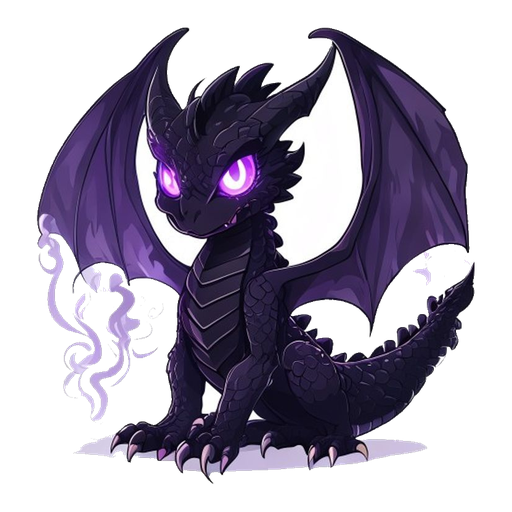
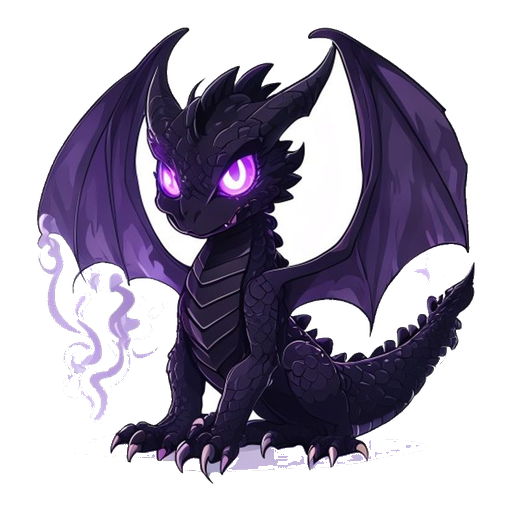
fix: เก็บงานภาพ ป้อมเวท + ลบเงาขาวใต้มอนสเตอร์ (v3.24.45)
- tower_magic.png: เจนใหม่ (Leonardo) แก้ตัวอักษรรูนมั่ว "RGENAT"
- enemy_*.png (19 ตัว): ลบเงาแผ่นขาว-เทาใต้เท้า ด้วย border-connected
  flood fill เฉพาะพิกเซลจืด+สว่าง (thr176/sat34) ปลอดภัยกับตัวมอน
  (โครงกระดูก/เกราะเงิน/หินโกเลม/สีอิ่มไม่โดนกิน)

diff --git a/Tower Quest 🏰.html b/Tower Quest 🏰.html
@@ -3,7 +3,7 @@
 
 <meta name="viewport" content="width=device-width, initial-scale=1.0, maximum-scale=1.0, user-scalable=no">
 <title>Tower Quest 🏰</title>
-<link rel="stylesheet" href="css/main.css?v=3.24.44">
+<link rel="stylesheet" href="css/main.css?v=3.24.45">
 </head>
 <body>
 
@@ -59,7 +59,7 @@
   <div class="island" id="logoIsland">🏰</div>
   <div class="gtitle">TOWER QUEST</div>
   <div class="gsub">⚔ ปกป้องอาณาจักรของคุณ!</div>
-  <div id="verBtn" style="font-size:10px;color:rgba(255,224,130,.45);letter-spacing:1px;margin-top:-18px;margin-bottom:18px;cursor:pointer;">📰 v3.24.44 — มีอะไรใหม่<span id="newsBadge" class="news-badge" style="display:none;"></span></div>
+  <div id="verBtn" style="font-size:10px;color:rgba(255,224,130,.45);letter-spacing:1px;margin-top:-18px;margin-bottom:18px;cursor:pointer;">📰 v3.24.45 — มีอะไรใหม่<span id="newsBadge" class="news-badge" style="display:none;"></span></div>
 
   <!-- battle buttons -->
   <button class="bbattle" id="startBtn">⚔ โหมดเนื้อเรื่อง</button>
@@ -920,15 +920,15 @@
     <button class="obtn" onclick="closeSettings()">✔ ปิด</button>
   </div>
 </div>
-<script src="js/cloud-save.js?v=3.24.44"></script>
-<script src="js/save.js?v=3.24.44"></script>
-<script src="js/enemy.js?v=3.24.44"></script>
-<script src="js/tower.js?v=3.24.44"></script>
-<script src="js/game.js?v=3.24.44"></script>
-<script src="js/ui-data.js?v=3.24.44"></script>
-<script src="js/ui-profile.js?v=3.24.44"></script>
-<script src="js/ui-casino.js?v=3.24.44"></script>
-<script src="js/ui.js?v=3.24.44"></script>
+<script src="js/cloud-save.js?v=3.24.45"></script>
+<script src="js/save.js?v=3.24.45"></script>
+<script src="js/enemy.js?v=3.24.45"></script>
+<script src="js/tower.js?v=3.24.45"></script>
+<script src="js/game.js?v=3.24.45"></script>
+<script src="js/ui-data.js?v=3.24.45"></script>
+<script src="js/ui-profile.js?v=3.24.45"></script>
+<script src="js/ui-casino.js?v=3.24.45"></script>
+<script src="js/ui.js?v=3.24.45"></script>
 
 
 </body></html>

diff --git a/js/ui-data.js b/js/ui-data.js
@@ -1,6 +1,10 @@
 /* ══ WHAT'S NEW (patch notes) ══ */
-const GAME_VERSION='3.24.44';
+const GAME_VERSION='3.24.45';
 const PATCH_NOTES=[
+  {ver:'3.24.45',date:'2026-07-03',title:'🖌 เก็บงานภาพ: ป้อมเวท + ลบเงาขาวใต้มอนสเตอร์',notes:[
+    'เจนป้อมเวทมนตร์ใหม่ (เอาตัวอักษรรูนมั่วออก)',
+    'ลบเงาแผ่นขาว-เทาใต้มอนสเตอร์ทั้ง 19 ตัว ให้พื้นสะอาดบนสนามมืด',
+  ]},
   {ver:'3.24.44',date:'2026-07-03',title:'🎁 เพิ่มรางวัลผ่านด่าน Act 2 (ด่าน 12-21)',notes:[
     'ภารกิจด่านมีรางวัลผ่านด่าน Act 2 ครบทั้ง 10 ด่าน (ทอง/เจม/ตั๋ว ไล่ต่อจาก Act 1)',
     'เพิ่มไมล์สโตนผ่านด่าน 9/15 + อัปเดต "ผ่านครบทุกด่าน" เป็น 21 ด่าน',

diff --git a/CHANGELOG.md b/CHANGELOG.md
@@ -2,6 +2,12 @@
 
 All notable changes to Tower Quest 🏰 will be documented in this file.
 
+## v3.24.45 — เก็บงานภาพ: ป้อมเวท + ลบเงาขาวใต้มอนสเตอร์
+
+### Fixed
+- `assets/images/tower_magic.png`: เจนใหม่ผ่าน Leonardo (ตัด "runes" ในพรอมต์ + ย้ำ no text) แก้ตัวอักษรรูนมั่ว ("RGENAT") ที่ AI สร้างบนตัวป้อมเดิม
+- `assets/images/enemy_*.png` (19 ตัว): ลบเงาแผ่นสีขาว-เทาใต้เท้ามอนสเตอร์ (พื้นเงาจากตอนเจนบนพื้นขาว ที่ดูผิดธรรมชาติบนสนามมืด) ด้วย border-connected flood fill เฉพาะพิกเซลจืด+สว่าง (thr 176, sat 34) — ปลอดภัยกับตัวมอน (โครงกระดูก/เกราะเงิน/หินโกเลม/สีอิ่มไม่โดนกิน)
+
 ## v3.24.44 — เพิ่มรางวัลผ่านด่าน Act 2 (Story Missions)
 
 ### Added

diff --git a/PROJECT_MASTER.md b/PROJECT_MASTER.md
@@ -3,7 +3,7 @@
 This document is a system-by-system map of the game as implemented in
 [`Tower Quest 🏰.html`](Tower%20Quest%20%F0%9F%8F%B0.html) plus its
 `css/main.css` and `js/{save,enemy,tower,game,ui}.js` modules (current
-version **v3.24.44**). Line numbers refer to these files and
+version **v3.24.45**). Line numbers refer to these files and
 may drift as they change — use them as a starting point for searches, not as
 permanent anchors.
 

diff --git a/CLAUDE.md b/CLAUDE.md
@@ -5,7 +5,7 @@ Guidance for Claude Code (and other AI assistants) working in this repository.
 ## Project Summary
 
 **Tower Quest 🏰** is a browser-based tower defense game written in
-Thai, currently at **v3.24.44**. Since the v1.6.1 refactor, the game is split
+Thai, currently at **v3.24.45**. Since the v1.6.1 refactor, the game is split
 across:
 
 - [`Tower Quest 🏰.html`](Tower%20Quest%20%F0%9F%8F%B0.html) — head/body
